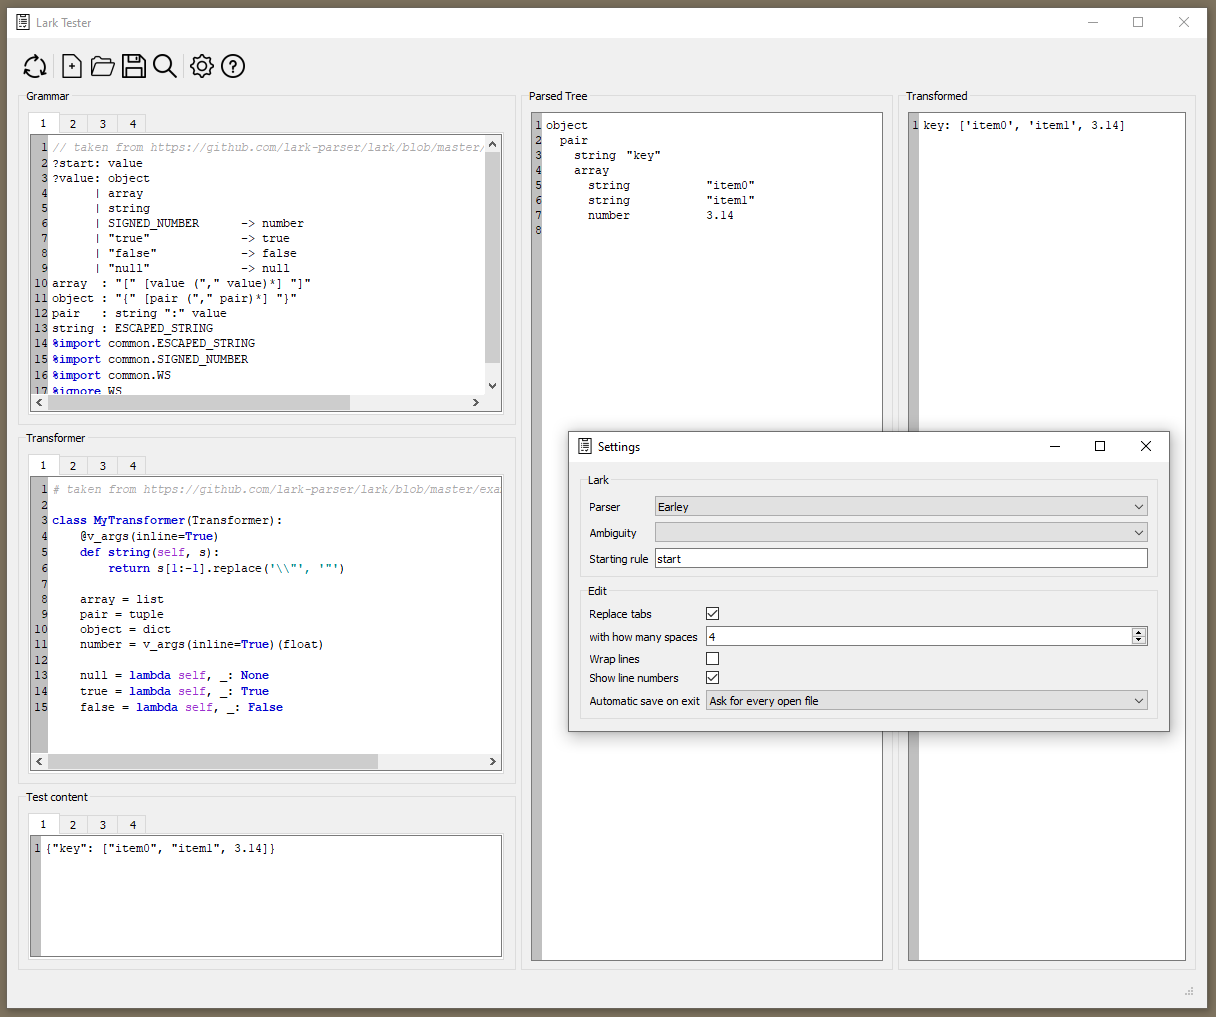
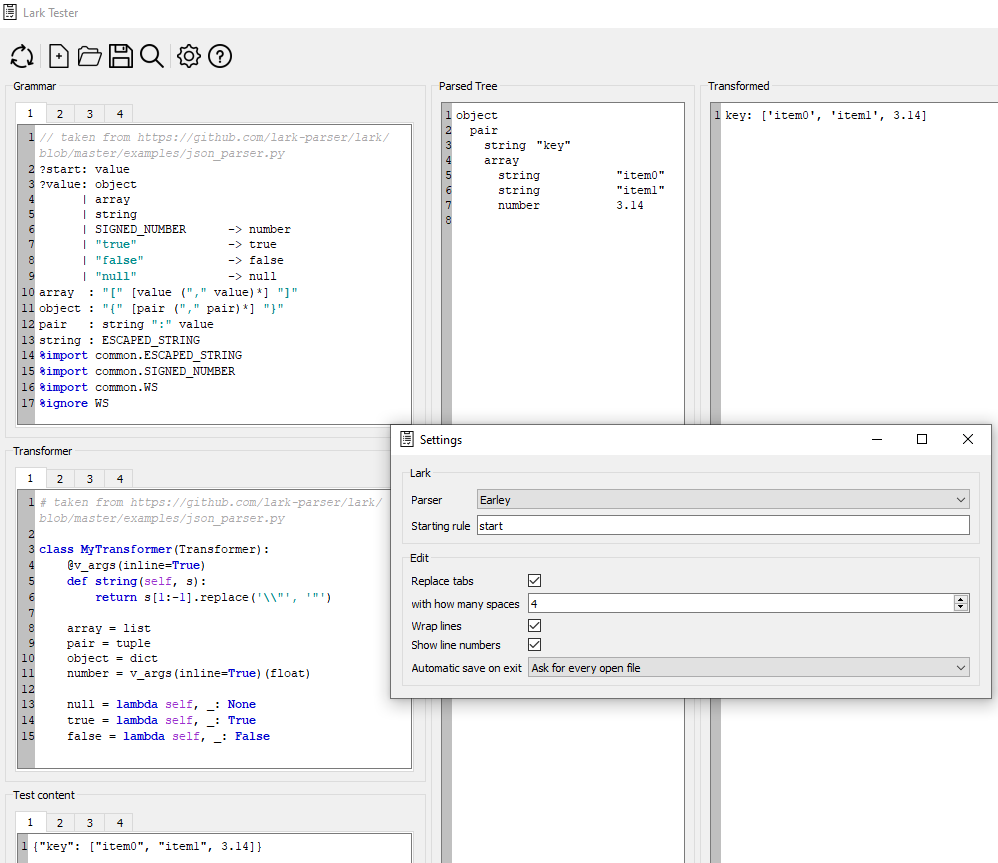
slightly better syntax highlighting, documentation

Changed region(s): [[0.0, 0.0, 1.0, 1.0], [0.5902, 0.1808, 0.6523, 0.241]]

diff --git a/lark_tester.py b/lark_tester.py
@@ -229,7 +229,6 @@ class SettingsWindow(QtWidgets.QWidget):
 
         l = QtWidgets.QFormLayout(lark_groupbox)
         l.addRow('Parser', self.lark_parser_combobox)
-        l.addRow('Ambiguity', QtWidgets.QComboBox())
         l.addRow('Starting rule', QtWidgets.QLineEdit('start'))
 
         # edits group box
@@ -286,7 +285,8 @@ class LarkHighlighter(QtGui.QSyntaxHighlighter):
 
     styles = {
         'statement': common.createTextCharFormat('mediumblue', style='bold'),
-        'comment': common.createTextCharFormat('darkgray', style='italic')
+        'comment': common.createTextCharFormat('darkgray', style='italic'),
+        'string': common.createTextCharFormat('darkcyan', style='bold')
     }
 
     statements = ('%ignore', '%import', '%declare')
@@ -306,9 +306,10 @@ class LarkHighlighter(QtGui.QSyntaxHighlighter):
 
         rules += [
             # from '#' until a newline
-            (r'\/\/[^\n]*', 'comment')
+            (r'\/\/[^\n]*', 'comment'),
 
-            # alias
+            # Double-quoted string, possibly containing escape sequences
+            (r'"[^"\\]*(\\.[^"\\]*)*"', 'string'),
         ]
 
         self.rules = [(QtCore.QRegularExpression(pattern), LarkHighlighter.styles[format]) for (pattern, format) in rules]

diff --git a/common.py b/common.py
@@ -146,8 +146,8 @@ class PythonHighlighter(QtGui.QSyntaxHighlighter):
         'operator': createTextCharFormat('black'),
         'brace': createTextCharFormat('black'),
         'defclass': createTextCharFormat('mediumblue', style='bold'),
-        'string': createTextCharFormat('darkcyan'),
-        'string2': createTextCharFormat('darkcyan'),
+        'string': createTextCharFormat('darkcyan', style='bold'),
+        'string2': createTextCharFormat('darkcyan', style='bold'),
         'comment': createTextCharFormat('darkgray', style='italic'),
         'self': createTextCharFormat('darkorchid'),
         'numbers': createTextCharFormat('mediumblue'),

diff --git a/README.md b/README.md
@@ -17,11 +17,22 @@ grammars and transformers. It can be found at https://github.com/Trilarion/lark-
 
 ### Getting started
 
-TODO how to run
+Make sure that the required dependencies (lark-parser and PyQt5) are installed, then run the *lark_teser.py* script, for
+example by executing *python lark_tester.py* after download of this software.
 
 ### Typical usage
 
-TODO describe default workflow
+The recommended way to use the Lark tester is
+
+- insert some simple test content in a Test content tab
+- write a simple version of the desired grammar, ignore the Transformer
+- try to parse the test content with the simple grammar
+- fix errors in the grammar
+- inspect the parsed result
+- iterate on test content and grammar, bringing both to more production ready levels
+- hint: using the different tabs, it's easy to switch between different test contents or grammars
+- if the grammar is advanced, produce a simple transformer
+- inspect the transformed result, fix errors and iteratively improve the transformer
 
 ### Keyboard shortcuts
 
@@ -38,9 +49,11 @@ select all (Ctrl+A) are available.
 
 ### Settings
 
-TODO describe settings and explain how they are stored, return to default settings
+Settings are stored in a file *settings.json* in the directory of the Lark tester script and can be removed at any
+time to return to the default values. Tabs with grammar/transformer/content that have been saved will be loaded again
+at the next start. Changes in settings or window / splitter sizes are also persistent.
 
-Changes in some edit settings may only take effect after a restart.
+Note: Changes in some edit settings may only take effect after a restart.
 
 ## Contribution
 
@@ -50,3 +63,5 @@ repository and create a pull request.
 ## License
 
 See [license](LICENSE) file.
+
+Icons made by [Those Icons](https://www.flaticon.com/authors/those-icons) and [Freepik](https://www.flaticon.com/authors/freepik) from [www.flaticon.com](https://www.flaticon.com/)
